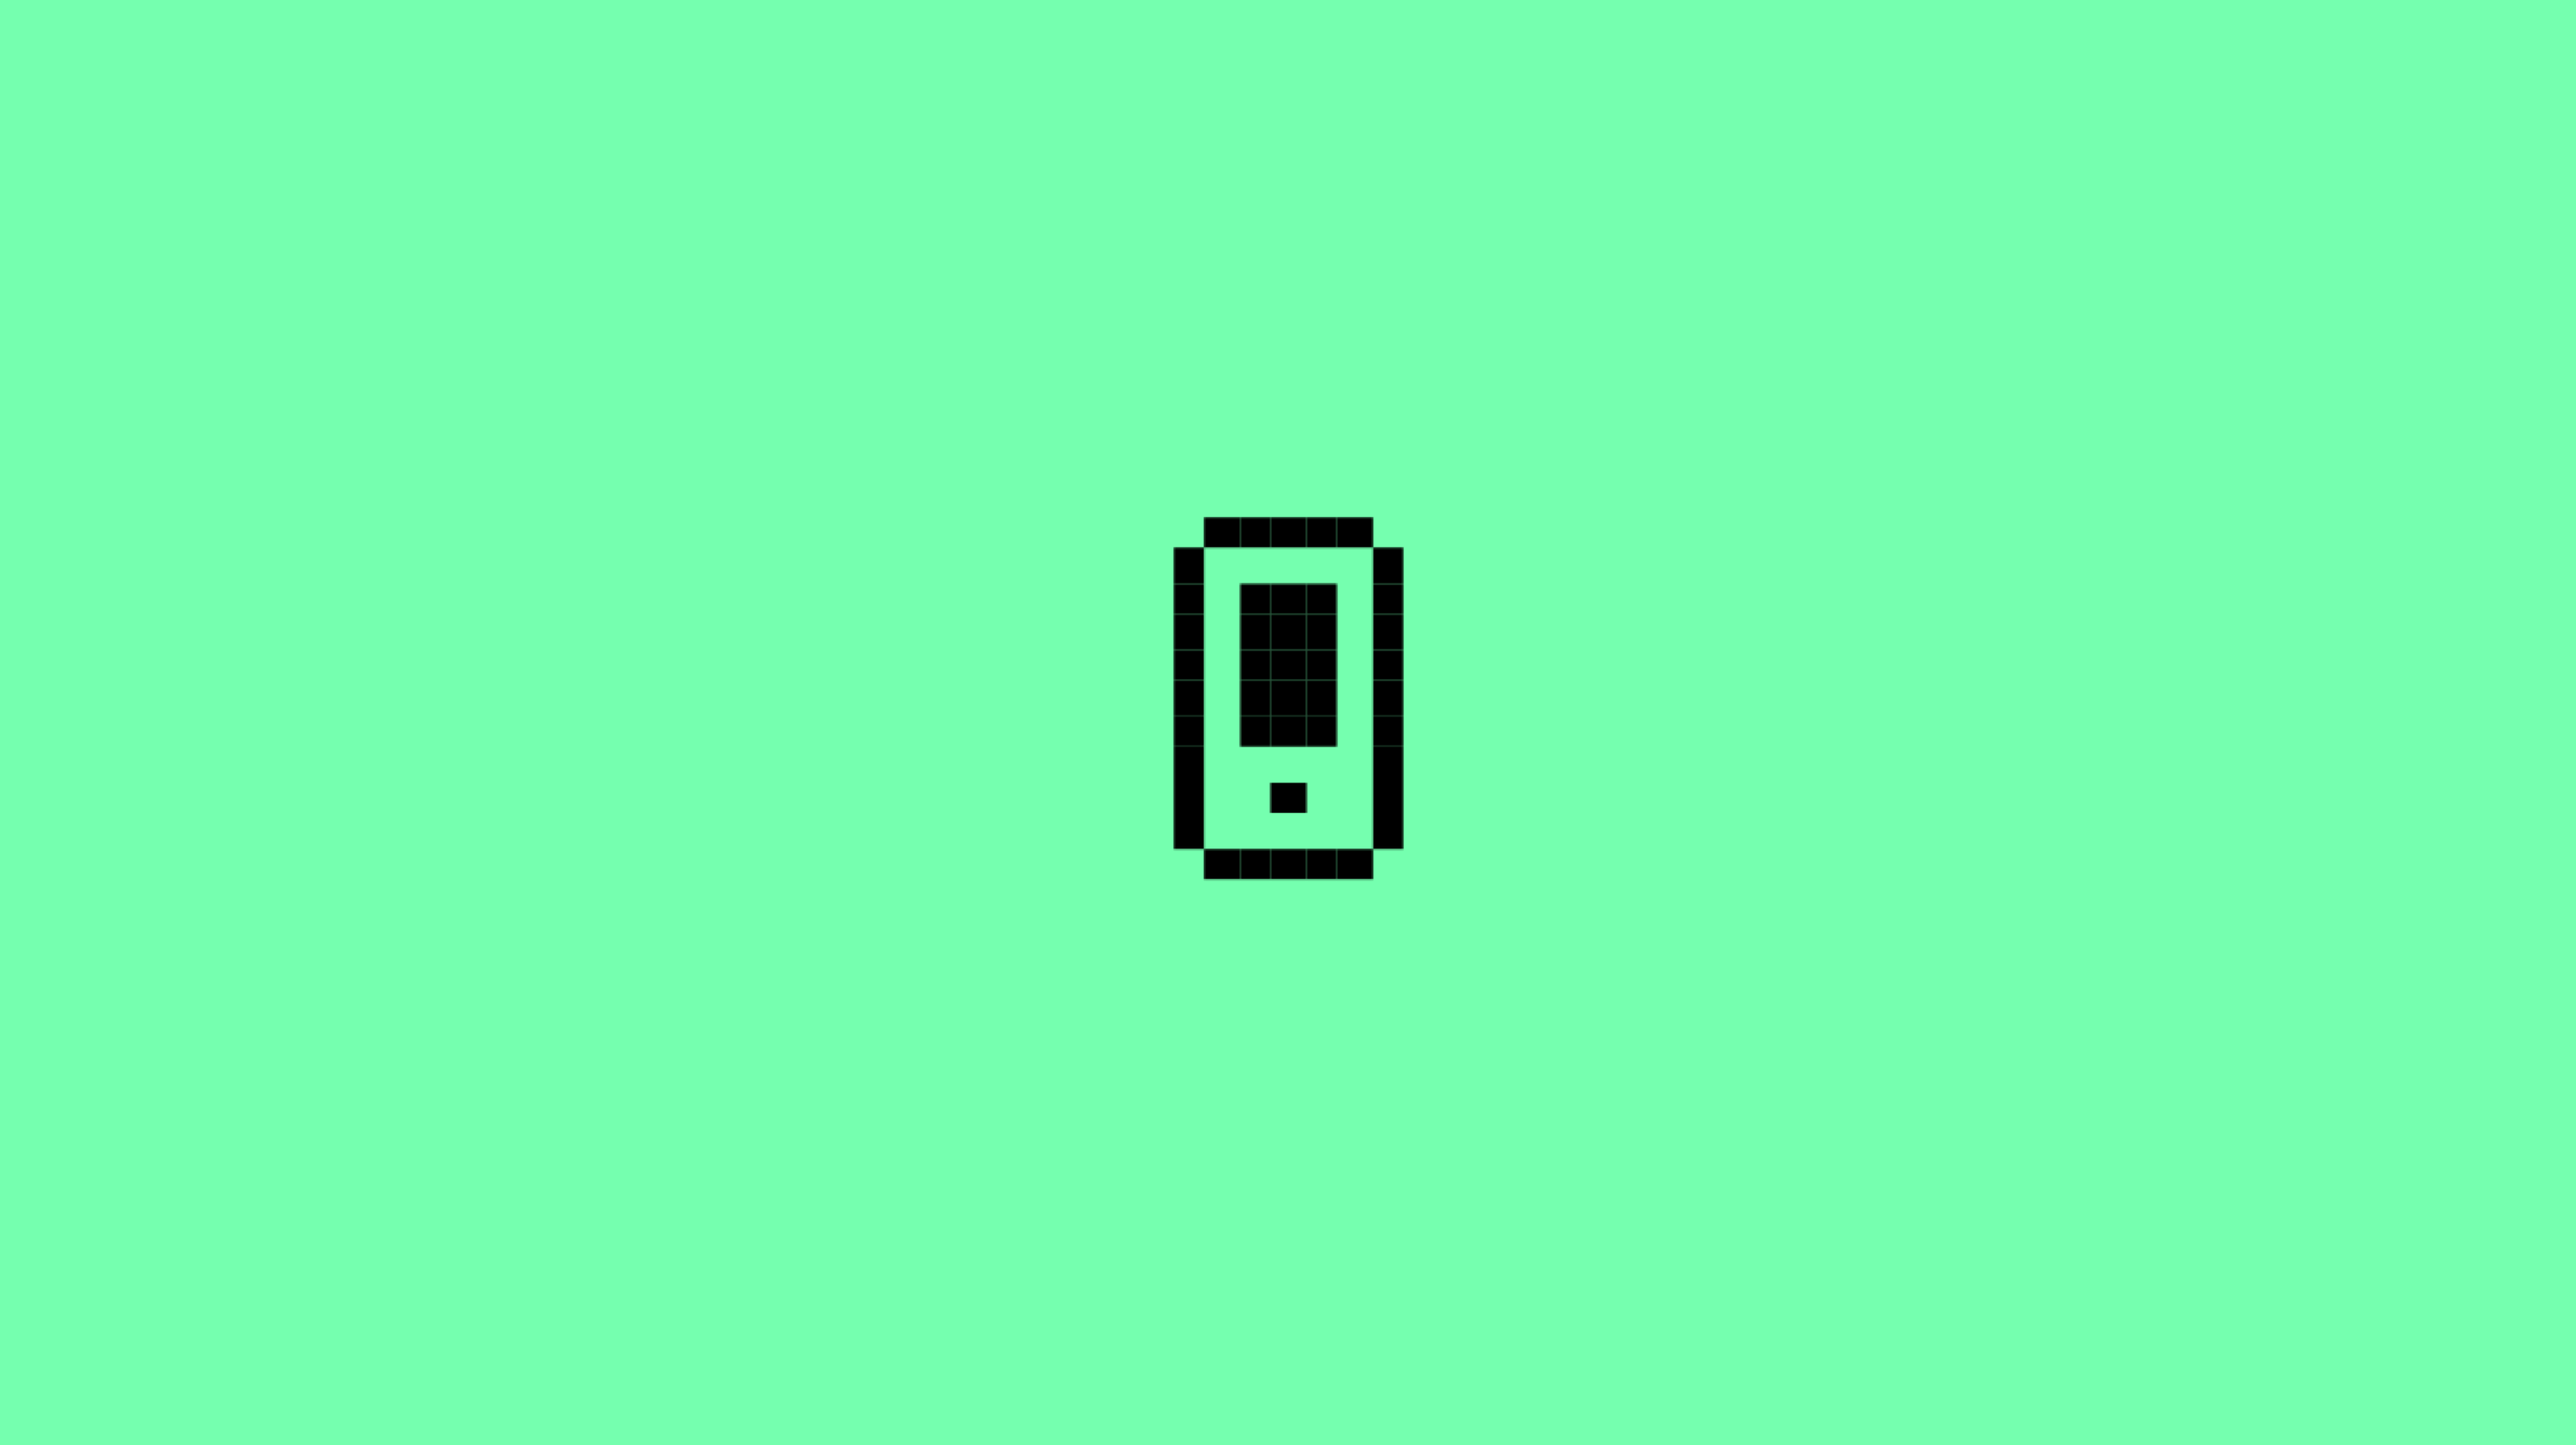
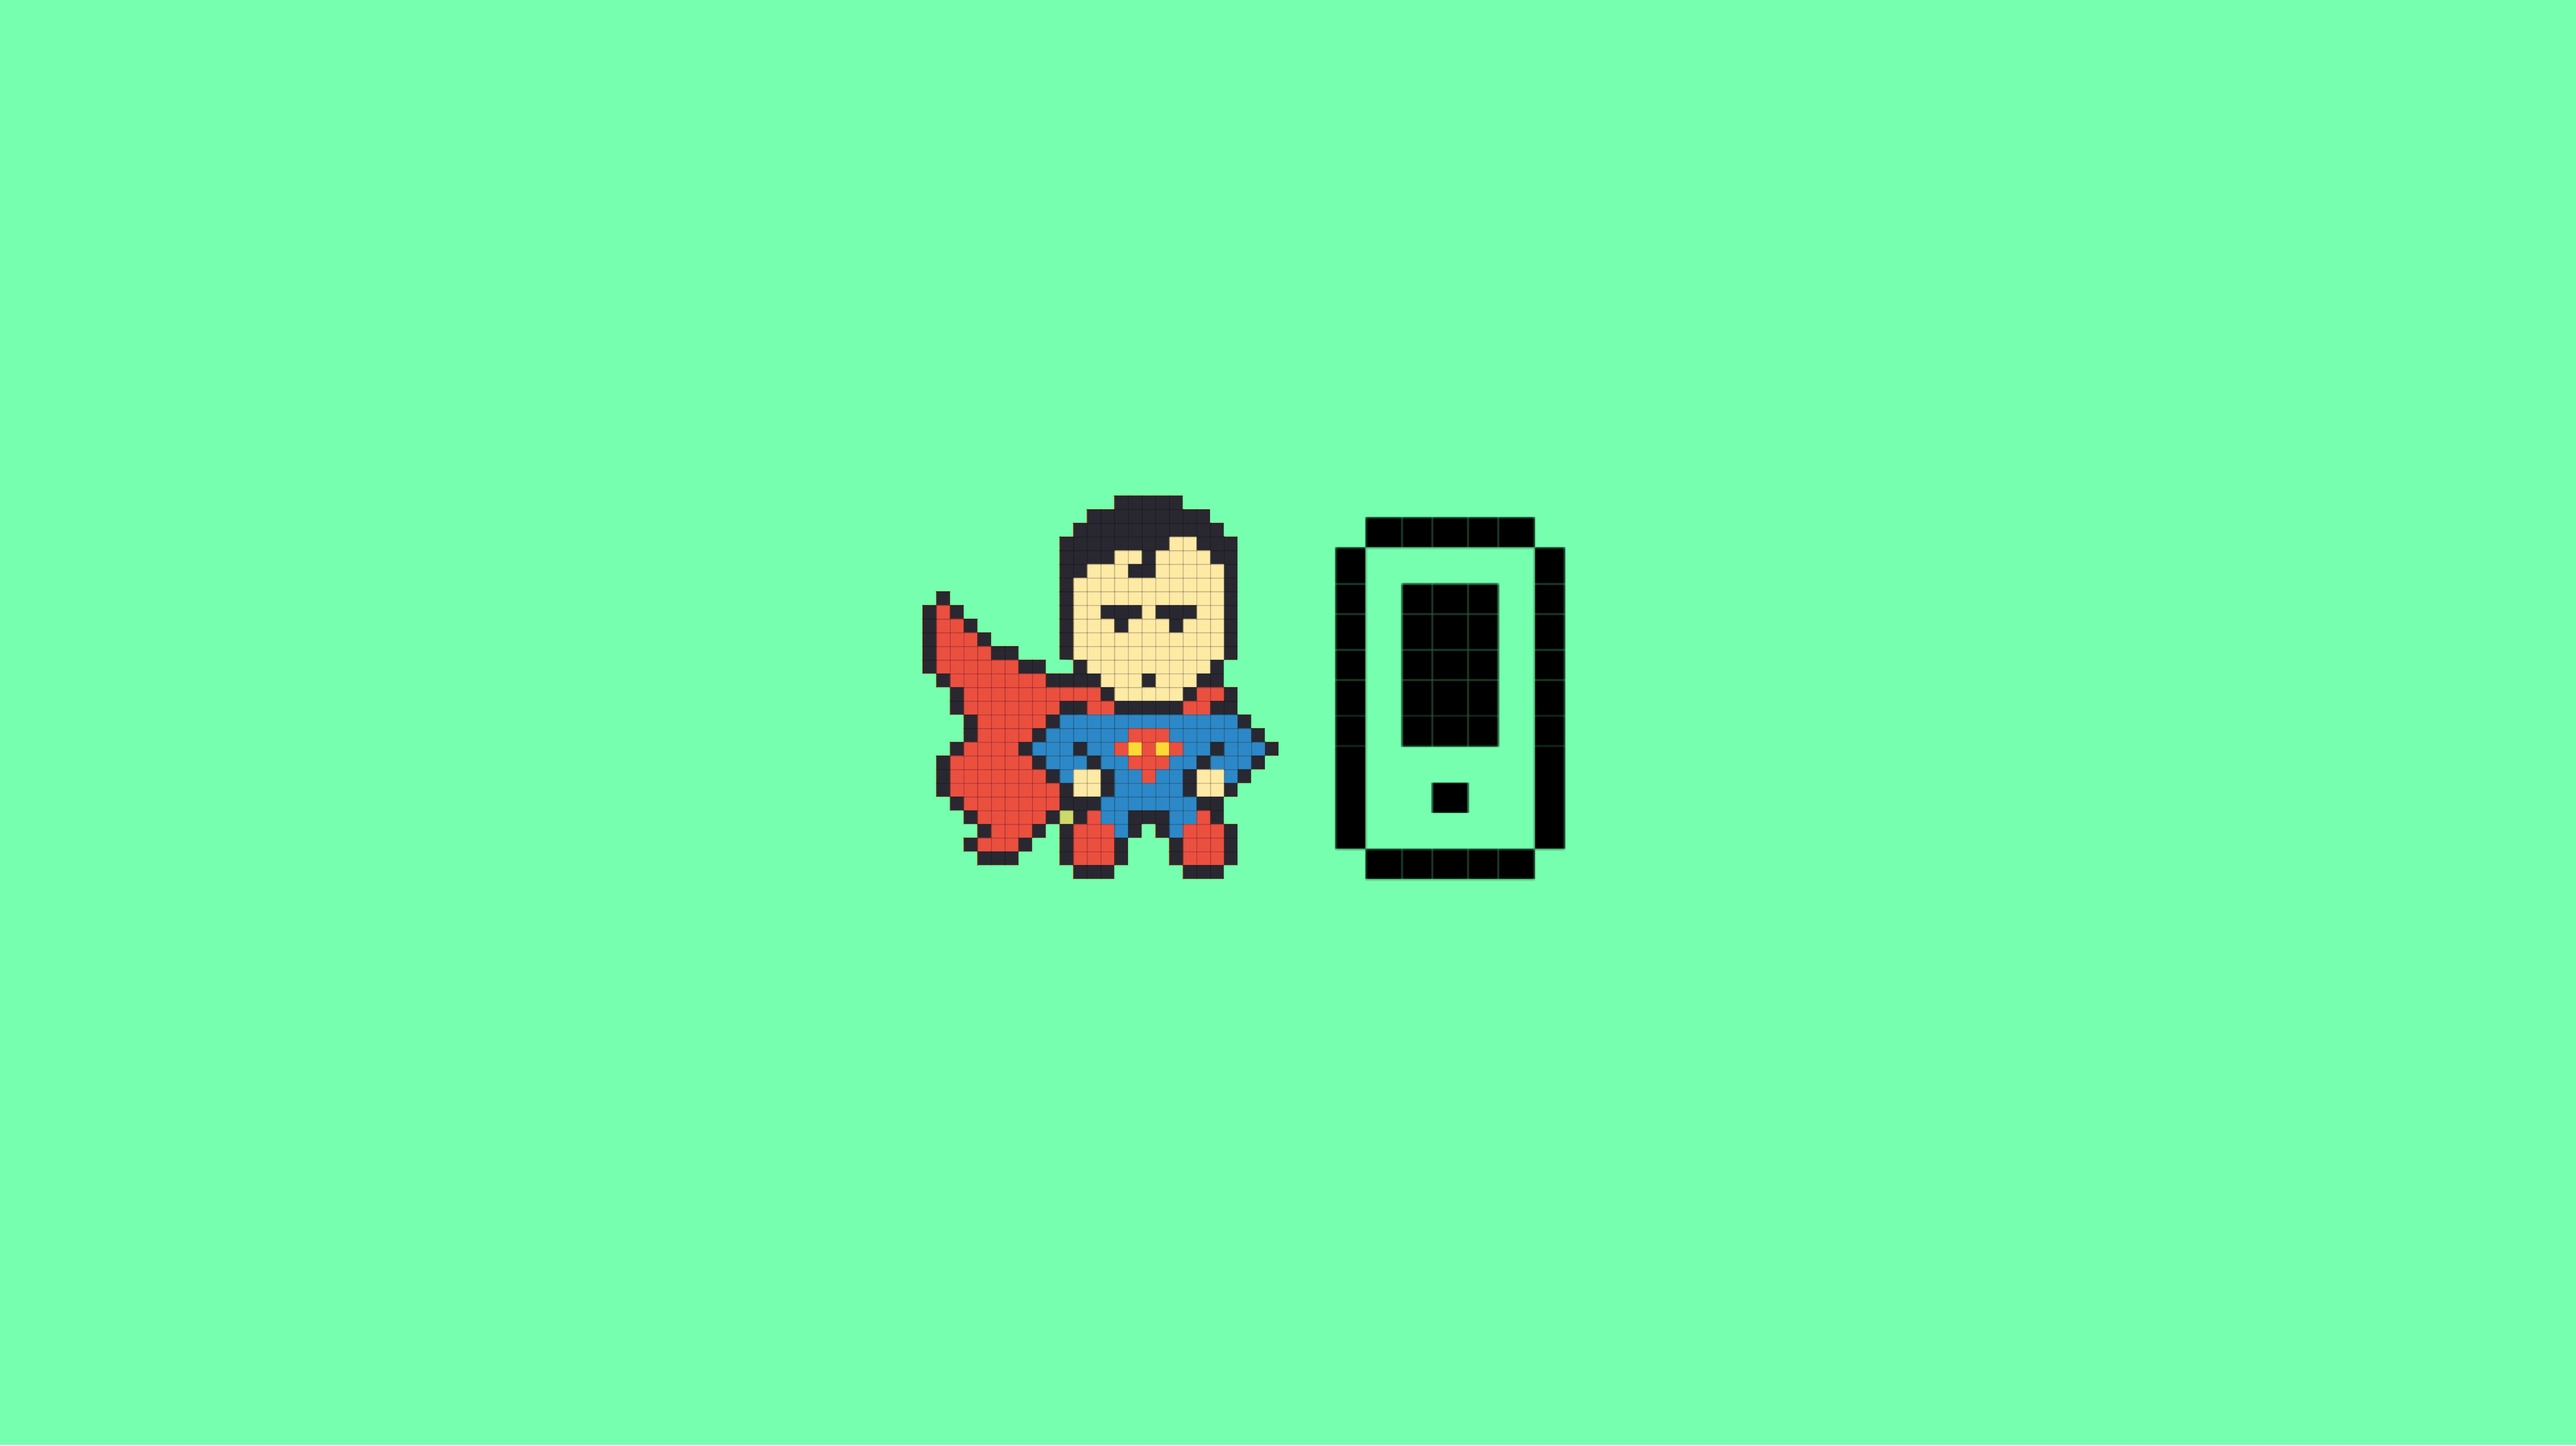
Nerdeando

Changed region(s): [[0.3427, 0.3416, 0.6231, 0.6211], [0.0, 0.9938, 1.0, 1.0]]

diff --git a/nerdeando.html b/nerdeando.html
@@ -3,9 +3,9 @@
     <head>
         <meta charset="utf-8">
         <meta http-equiv="X-UA-Compatible" content="IE=edge">
-        <title>NerdBlog</title>
-        <meta name="description" content="NerdBlog Agus Agustin Moncada Oficial Daniel">
-        <link rel="shortcut icon" href="" type="image">
+        <title>Nerdeando - Agus Moncada</title>
+        <meta name="description" content="Nerdeando blog nerd Agus Agustin Moncada Oficial Daniel">
+        <link rel="shortcut icon" href="NerdBlogCSS/LogoNerdeando.png" type="image">
         <meta name="viewport" content="width=device-width, initial-scale=1, maximum-scale=1, user-scalable=0"/>
         <link rel="stylesheet" href="NerdBlogCSS/nerdeando.css">
         <script src="https://ajax.googleapis.com/ajax/libs/jquery/2.2.0/jquery.min.js"></script>

diff --git a/NerdBlogCSS/nerdeando.css b/NerdBlogCSS/nerdeando.css
@@ -145,7 +145,7 @@ hr {
 
 .phone--image {
   width: 100vw;
-  height: 400px;
+  height: 370px;
   margin: 0;
   background-color: pink;
   background-image: url(agusmoncada0.png);
